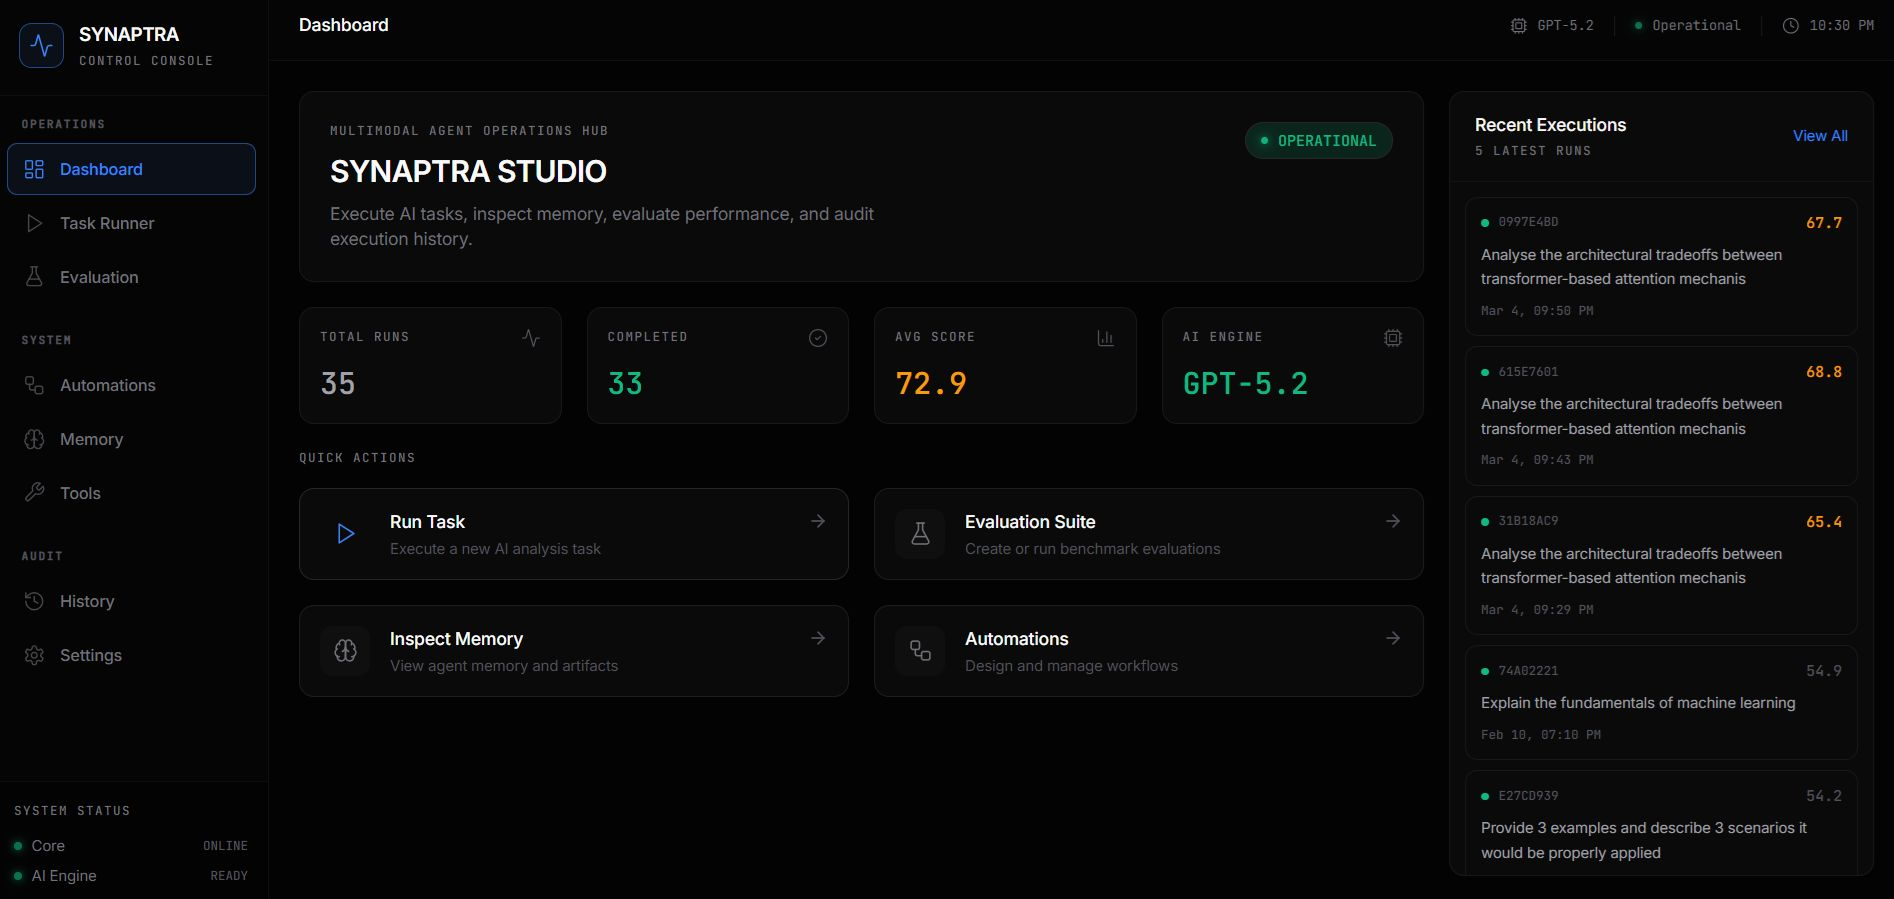
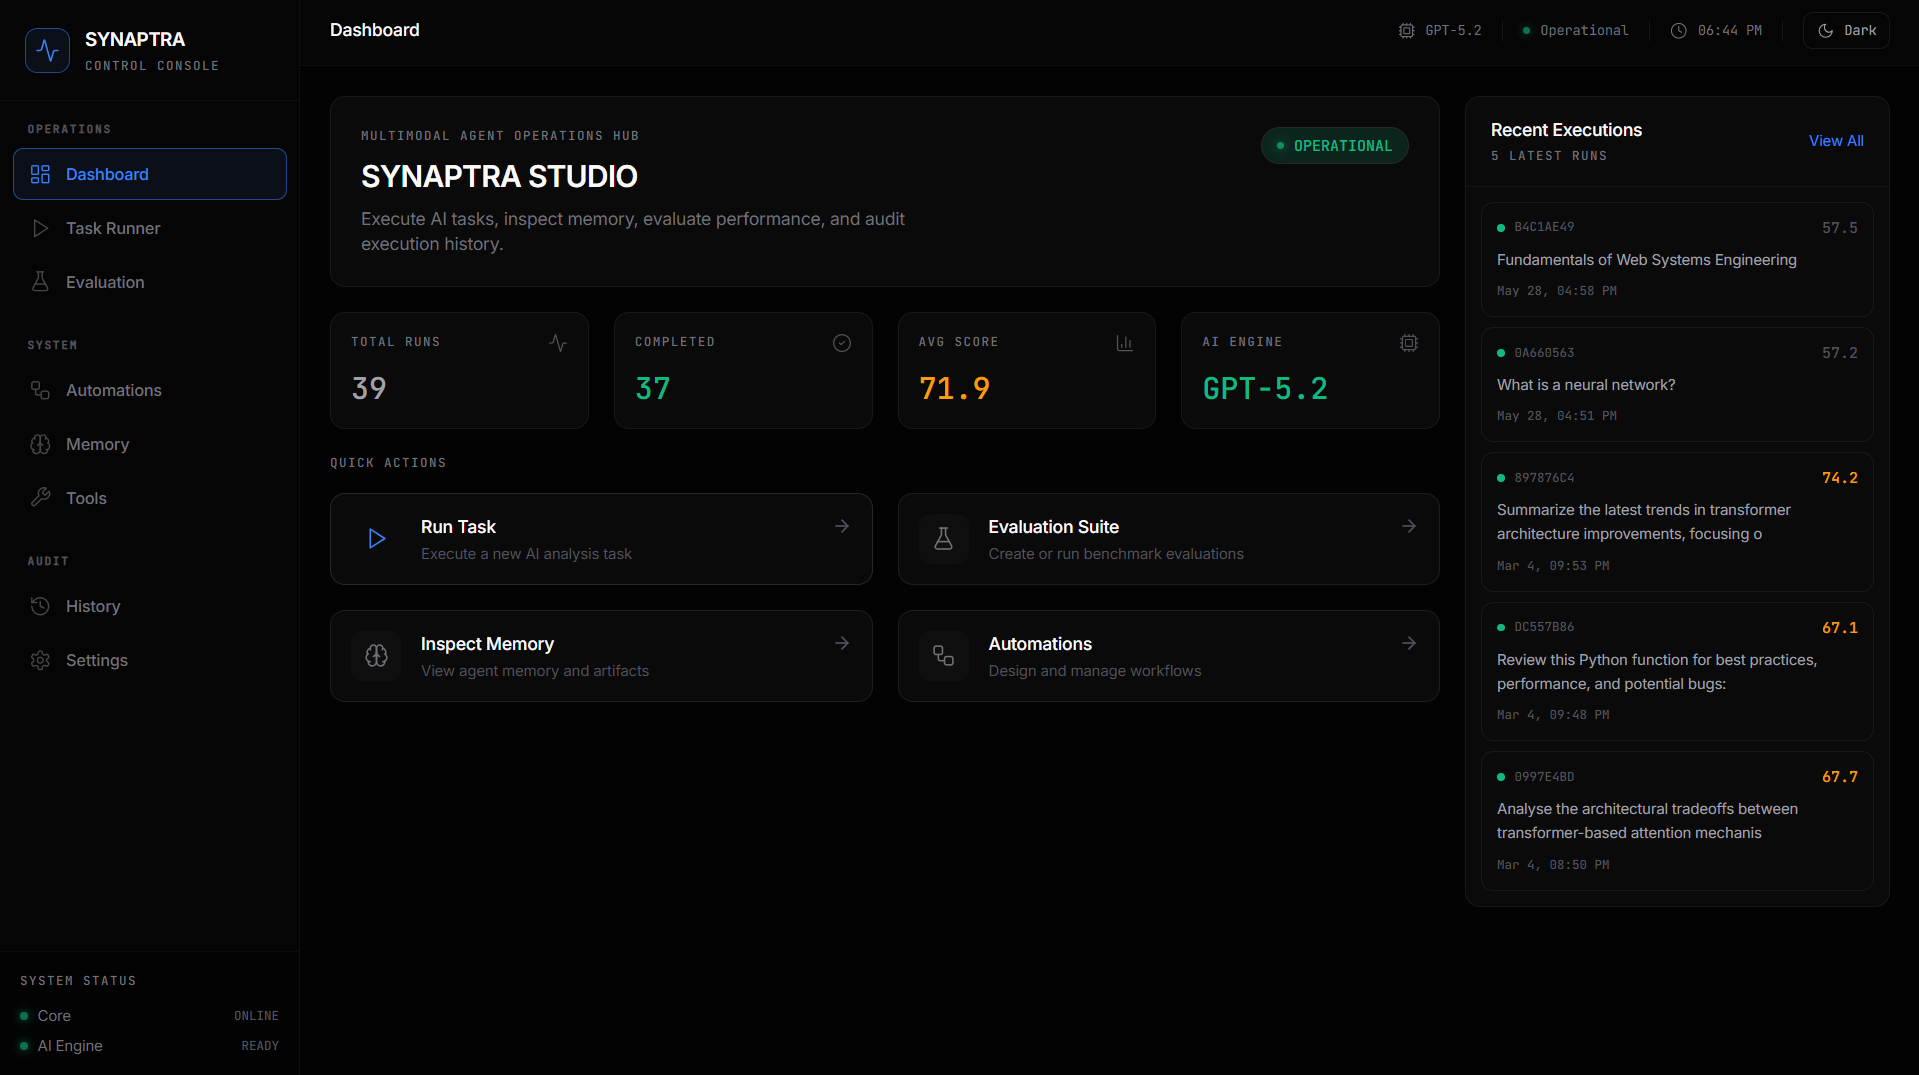
docs: refresh README screenshots and add Tools, History sections
Replaces the dashboard, task-pipeline, eval-metrics, memory, and
model-comparison screenshots with current captures of the new UI
(theme system, page-level scroll, mobile-responsive layout).

Repurposes the reasoning-traces slot to showcase the new markdown
rendering of task output; caption updated to "Rich Markdown Output".

Adds two new showcase sections to the platform overview:
- Tool Registry (toggleable agent capabilities)
- Execution History (audit ledger of every task run)

Automations and model-comparison screenshots reused unchanged.

diff --git a/README.md b/README.md
@@ -33,11 +33,11 @@ Real-time observability into the six-stage execution pipeline with per-step timi
   <img src="docs/screenshots/task-pipeline.jpeg" alt="Task Execution Pipeline" width="100%">
 </p>
 
-### AI Reasoning Traces
-Full transparency into the agent's decision-making process — every reasoning step is logged with phase, action, confidence, and duration.
+### Rich Markdown Output
+Model responses are rendered as formatted markdown with headings, lists, code blocks, and emphasis — substantive output styled for readability in both light and dark themes.
 
 <p align="center">
-  <img src="docs/screenshots/reasoning-traces.jpeg" alt="Reasoning Traces" width="100%">
+  <img src="docs/screenshots/reasoning-traces.jpeg" alt="Rich Markdown Output" width="100%">
 </p>
 
 ### Evaluation Metrics
@@ -66,6 +66,20 @@ Persistent memory store with typed entries (Context, Summary, Artifact, Referenc
 
 <p align="center">
   <img src="docs/screenshots/memory.jpeg" alt="Semantic Memory" width="100%">
+</p>
+
+### Tool Registry
+Toggleable capability registry — Code Executor, Web Search, File Reader, Calculator — that gates which actions the agent can invoke during task execution.
+
+<p align="center">
+  <img src="docs/screenshots/tools.jpeg" alt="Tool Registry" width="100%">
+</p>
+
+### Execution History
+Complete audit ledger of every task run with input, type, provider, score, and timestamp — fully searchable and filterable.
+
+<p align="center">
+  <img src="docs/screenshots/history.jpeg" alt="Execution History" width="100%">
 </p>
 
 ---
